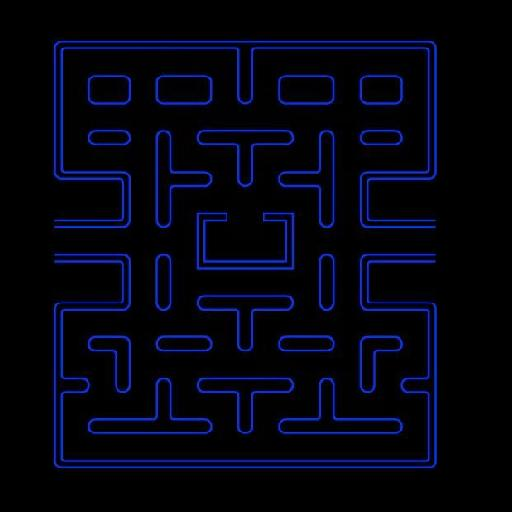
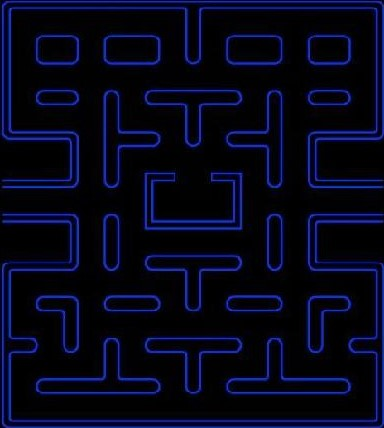
more progress

diff --git a/Namcap/src/Board.java b/Namcap/src/Board.java
@@ -30,8 +30,26 @@ public class Board {
 			for(int j=0; j<height; j++)
 			{
 				tiles[i][j] = new Square(i, j);
+				tiles[i][j].hasDot = true;
+				tiles[i][j].xPos = i*40+40;
+				tiles[i][j].yPos = i*40+40;
 			}
 		}
+		
+		tiles[0][0].hasDot = false;
+		
+		
+		tiles[1][1].hasDot = false;
+		tiles[1][3].hasDot = false;
+		tiles[1][6].hasDot = false;
+		tiles[1][8].hasDot = false;
+		
+		tiles[5][0].hasDot = false;
+		tiles[5][1].hasDot = false;
+		tiles[5][4].hasDot = false;
+		tiles[5][5].hasDot = false;
+		tiles[5][8].hasDot = false;
+		tiles[5][9].hasDot = false;
 		
 		// Link some tiles for the demo board
 		demoLinks();
@@ -40,8 +58,8 @@ public class Board {
 		tiles[6][2].hasDot = true;
 		
 		// Initialize pacman and aiGhost0's locations
-		this.pacman = new Pacman(this.tiles[4][1]);
-		this.aiGhost0 = new Ghost(Color.RED, this.tiles[5][3]);
+		this.pacman = new Pacman(this.tiles[0][0]);
+		this.aiGhost0 = new Ghost(Color.RED, this.tiles[5][5]);
 	}
 	
 	// Breadth-first search to find Square with pacman
@@ -135,47 +153,123 @@ public class Board {
 	// New and improved Chad links
 	private void demoLinks()
 	{
-		// BEWARE: not pretty, not sure if there's a better way to do this for a board with twists and turns
-		for(int i=0; i<this.height-1; i++)
-		{	
-			linkSquares(0, i, 's');
-			linkSquares(3, i, 's');
-			linkSquares(4, i, 's');
-		}	
 		linkSquares(0, 0, 'e');
-		linkSquares(1, 0, 'e');
-		linkSquares(2, 0, 'e');
-		linkSquares(4, 0, 'e');
-		linkSquares(5, 0, 'e');
 		linkSquares(1, 1, 'e');
-		linkSquares(2, 1, 'e');
-		linkSquares(3, 1, 'e');
-		linkSquares(5, 1, 'e');
 		linkSquares(2, 2, 'e');
-		linkSquares(5, 2, 'e');
-		linkSquares(0, 3, 'e');
-		linkSquares(1, 3, 'e');
-		linkSquares(4, 3, 'e');
-		for(int i=0; i<this.width-1; i++)
+		linkSquares(3, 3, 'e');
+		linkSquares(5, 5, 'e');
+		linkSquares(6, 6, 'e');
+		linkSquares(7, 7, 'e');
+		linkSquares(8, 8, 'e');
+		
+		for (int i = 0; i < 9; i++)
+		{
+			linkSquares(i, 2, 'e');
+		}
+		
+		for (int i = 0; i < 2; i++)
+		{
 			linkSquares(i, 4, 'e');
+			linkSquares(i+7, 3, 'e');
+		}
 		
-		linkSquares(1, 1, 's');
-		linkSquares(1, 2, 's');
-		linkSquares(2, 2, 's');
+		linkSquares(3, 3, 'e');
+		linkSquares(5, 3, 'e');
+		
+		linkSquares(3, 4, 'e');
+		linkSquares(4, 4, 'e');
+		linkSquares(5, 4, 'e');
+	
+		linkSquares(0, 5, 'e');
+		linkSquares(1, 5, 'e');
+		linkSquares(2, 5, 'e');
+		linkSquares(6, 5, 'e');
+		linkSquares(7, 5, 'e');
+		linkSquares(8, 5, 'e');
+		
+		linkSquares(3, 6, 'e');
+		linkSquares(4, 6, 'e');
+		linkSquares(5, 6, 'e');
+		
+		linkSquares(0, 7, 'e');
+		linkSquares(1, 7, 'e');
+		linkSquares(2, 7, 'e');
+		linkSquares(3, 7, 'e');
+		linkSquares(5, 7, 'e');
+		linkSquares(6, 7, 'e');
+		linkSquares(7, 7, 'e');
+		linkSquares(8, 7, 'e');
+		
+		linkSquares(0, 8, 'e');
+		linkSquares(2, 8, 'e');
+		linkSquares(3, 8, 'e');
+		linkSquares(4, 8, 'e');
+		linkSquares(5, 8, 'e');
+		linkSquares(6, 8, 'e');
+		linkSquares(8, 8, 'e');
+		
+		linkSquares(0, 9, 'e');
+		linkSquares(1, 9, 'e');
+		linkSquares(3, 9, 'e');
+		linkSquares(5, 9, 'e');
+		linkSquares(7, 9, 'e');
+		linkSquares(8, 9, 'e');
+		
+		for (int i = 0; i < 9; i++)
+		{
+			linkSquares(i, 10, 'e');
+		}
+		
+		linkSquares(0, 0, 's');
+		linkSquares(0, 1, 's');
+		linkSquares(0, 2, 's');
+		linkSquares(0, 7, 's');
+		linkSquares(0, 9, 's');
+		
+		linkSquares(1, 8, 's');
+		
+		for (int i = 0; i < 9; i++)
+		{
+			linkSquares(2, i, 's');	
+		}
+		
+		linkSquares(3, 2, 's');
+		linkSquares(3, 4, 's');
+		linkSquares(3, 5, 's');
+		linkSquares(3, 6, 's');
+		linkSquares(3, 8, 's');
+		
+		linkSquares(4, 0, 's');
+		linkSquares(4, 1, 's');
+		linkSquares(4, 3, 's');
+		linkSquares(4, 7, 's');
+		linkSquares(4, 9, 's');
+		
+		linkSquares(5, 0, 's');
 		linkSquares(5, 1, 's');
-		linkSquares(5, 2, 's');
-		linkSquares(6, 0, 's');
-		linkSquares(6, 2, 's');
-		linkSquares(6, 3, 's');
+		linkSquares(5, 3, 's');
+		linkSquares(5, 7, 's');
+		linkSquares(5, 9, 's');
 		
-		/*		For a 7x5 board, looks like this:
-		 * 		 ______________
-		 * 		|  ___  |  __  |
-		 * 		| |  _    |  __|
-		 * 		| | |   | |    |
-		 * 		| ____| |  __| |
-		 * 		|______________|
-		 */
+		linkSquares(6, 2, 's');
+		linkSquares(6, 4, 's');
+		linkSquares(6, 5, 's');
+		linkSquares(6, 6, 's');
+		linkSquares(6, 8, 's');
+		
+		for (int i = 0; i < 9; i++)
+		{
+			linkSquares(7, i, 's');	
+		}
+		
+		linkSquares(8, 8, 's');
+		
+		linkSquares(9, 0, 's');
+		linkSquares(9, 1, 's');
+		linkSquares(9, 2, 's');
+		linkSquares(9, 7, 's');
+		linkSquares(9, 9, 's');
+	
 	}
 	
 	public String toString()

diff --git a/Namcap/src/Level.java b/Namcap/src/Level.java
@@ -10,20 +10,31 @@ public class Level extends JPanel implements KeyListener, ActionListener
 {
 	Timer t = new Timer(5, this);
 	private JFrame window = new JFrame();
-	private ImageIcon bg = new ImageIcon("C:\\Users\\Adam Pickens\\git\\Namcap\\Namcap\\src\\images\\background.jpg");
+	private ImageIcon bg = new ImageIcon("C:\\Users\\Adam Pickens\\git\\Namcap\\Namcap\\src\\images\\map grid.png");
 	private Player player = new Player(3, 10, 10, "C:\\Users\\Adam Pickens\\git\\Namcap\\Namcap\\src\\images\\ghost.jpg", true);
-	private PacMove pacman = new PacMove(3, 10, 10, "C:\\Users\\Adam Pickens\\git\\Namcap\\Namcap\\src\\images\\ghost.jpg", true);
-	private int speed = 10;
+	private PacMove pacman; //= new PacMove(3, 40, 40,, true);
+	private int speed = 5;
 	private int xSpeed = speed;
 	private int ySpeed = speed;
 	
-	public Level()
+	private Board boardPac; 
+	
+	public Level(Board b)
 	{
+		pacman = new PacMove(3, b.pacman.location.xPos, b.pacman.location.yPos, "C:\\Users\\Adam Pickens\\git\\Namcap\\Namcap\\src\\images\\pacman.gif", true);
+		pacman.setxDest(pacman.getxAxis());
+		pacman.setyDest(pacman.getyAxis());
+		
 		this.setFocusable(true);
 		this.addKeyListener(this);
+		window.setTitle("Nam-cap/Reverse Pac-man");
 		window.add(this);
 		
-		window.setSize(512,512);
+		boardPac = b;
+		
+		System.out.println(bg.getIconWidth() + " " + bg.getIconHeight());
+		
+		window.setSize(new Dimension(498, 567));
 		window.setDefaultCloseOperation(JFrame.EXIT_ON_CLOSE);
 		window.setVisible(true);
 		t.start();
@@ -76,6 +87,7 @@ public class Level extends JPanel implements KeyListener, ActionListener
 
 	@Override
 	public void actionPerformed(ActionEvent e) {
+		
 		if (pacman.getxAxis() == pacman.getxDest())
 			xSpeed = 0;
 		else if(pacman.getxAxis() < pacman.getxDest())
@@ -91,10 +103,24 @@ public class Level extends JPanel implements KeyListener, ActionListener
 			ySpeed = -speed;
 		
 		
-			
-		pacman.setxAxis(pacman.getxAxis()+xSpeed);
-		pacman.setyAxis(pacman.getyAxis()-ySpeed);
+		
+		
+		
+
 		this.repaint();
+		System.out.println(pacman.getxAxis() + " " + pacman.getyAxis());
+		System.out.println(pacman.getxDest() + " " + pacman.getyDest());
+		
+		if (pacman.getxAxis() == pacman.getxDest() & pacman.getyAxis() == pacman.getyDest())
+		{
+			Square temp = boardPac.pacman.locateNearestDot().get(1);
+			pacman.setxDest(temp.xPos);
+			pacman.setyDest(temp.yPos);
+			boardPac.pacman.location = temp;
+		}
+		
+		pacman.setxAxis(pacman.getxAxis()+xSpeed);
+		pacman.setyAxis(pacman.getyAxis()+ySpeed);
 		
 	}
 }

diff --git a/Namcap/src/driver.java b/Namcap/src/driver.java
@@ -13,8 +13,8 @@ import javax.swing.border.TitledBorder;
 public class driver extends JPanel {
 	public static void main(String[] args)
 	{
-		/*
-		Board board = new Board(7, 5);
+		
+		Board board = new Board(10, 11);
 		System.out.println(board);
 		System.out.println();
 		
@@ -23,10 +23,10 @@ public class driver extends JPanel {
 		System.out.println();
 		System.out.println();
 		System.out.println();
-		board.pacman.locateNearestDot();*/
+		//board.pacman.locateNearestDot();
 
 		
-		Level l = new Level();
+		Level l = new Level(board);
 		
 	}
 }

diff --git a/Namcap/src/Pacman.java b/Namcap/src/Pacman.java
@@ -59,8 +59,8 @@ public class Pacman {
 		}
 		
 		Collections.reverse(shortestPath);
-		System.out.println(shortestPath.toString());
-		System.out.println("Distance: " + (shortestPath.size()-1));
+		//System.out.println(shortestPath.toString());
+		//System.out.println("Distance: " + (shortestPath.size()-1));
 		
 		return shortestPath;
 	}

diff --git a/Namcap/src/PacMove.java b/Namcap/src/PacMove.java
@@ -9,8 +9,8 @@ public class PacMove
 	private String imagePath;
 	private boolean isAlive;
 	
-	private int xDest;
-	private int yDest;
+	private int xDest = xAxis;
+	private int yDest = yAxis;
 	
 	public PacMove(int lives, int xAxis, int yAxis, String imagePath, boolean isAlive) 
 	{
